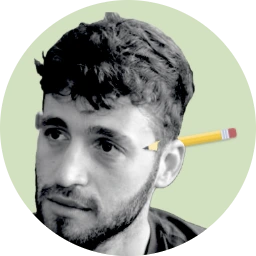
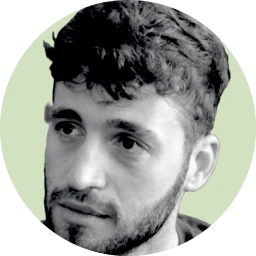
feat(design): enlarge the tutor portrait and put books on the desk
The portrait is cropped close, without the pencil, and shown larger:
96px in the margins and 48px beside tutor notes. On wide screens a
spiral notebook, a stack of books and an open book lie on the graph
paper beside the sheet, drawn in the color tokens and kept behind the
content.

diff --git a/client/src/components/Drawings.jsx b/client/src/components/Drawings.jsx
@@ -1,8 +1,8 @@
-// The tutor's portrait and the pencil. Both are decoration: screen readers skip them.
+// The tutor's portrait and the drawings on the page. All decoration: screen readers skip them.
 import tutorPortrait from './tutor.webp'
 
-// The tutor is the app's author: a photo cut out and set in ink on sage, with this file's pencil
-// tucked behind the ear. One prepared 256px image, so nothing is composed in the browser.
+// The tutor is the app's author: a photo cut out and set in ink on the sage circle.
+// One prepared 256px image, so nothing is composed in the browser.
 export function TutorAvatar({ className = '' }) {
   return <img src={tutorPortrait} alt="" className={`shrink-0 rounded-pill ${className}`} />
 }
@@ -21,5 +21,69 @@ export function Pencil({ className = '' }) {
       <path d="M168 4 L200 14 L168 24 Z" className="fill-pencil/40" />
       <path d="M188 10.25 L200 14 L188 17.75 Z" className="fill-graphite" />
     </svg>
+  )
+}
+
+// A spiral notebook with an elastic band, seen from above.
+function Notebook({ className }) {
+  const rings = [22, 40, 58, 76, 94, 112, 130, 148, 166, 184]
+  return (
+    <svg viewBox="0 0 170 210" className={className}>
+      <rect x="26" y="12" width="136" height="190" rx="9" strokeWidth="2" className="fill-paper stroke-grid" />
+      <rect x="20" y="8" width="136" height="190" rx="9" className="fill-blue" />
+      <rect x="58" y="44" width="76" height="40" rx="5" className="fill-paper" />
+      <path d="M68 58 h56 M68 70 h40" strokeWidth="3" strokeLinecap="round" className="stroke-grid" />
+      <rect x="132" y="8" width="7" height="190" className="fill-pen/85" />
+      {rings.map((y) => <path key={y} d={`M10 ${y} q10 -8 18 0`} fill="none" strokeWidth="3" strokeLinecap="round" className="stroke-graphite" />)}
+    </svg>
+  )
+}
+
+// Three books lying on top of each other, seen from the side.
+function BookStack({ className }) {
+  const pages = (x, y, width) => <path d={`M${x} ${y} h${width} M${x} ${y + 6} h${width} M${x} ${y + 12} h${width}`} strokeWidth="2" className="stroke-grid" />
+  return (
+    <svg viewBox="0 0 230 150" className={className}>
+      <rect x="8" y="104" width="214" height="38" rx="5" className="fill-ink" />
+      <rect x="150" y="110" width="66" height="26" rx="2" className="fill-paper" />
+      {pages(154, 117, 58)}
+      <rect x="30" y="110" width="8" height="26" className="fill-pencil" />
+      <rect x="24" y="68" width="186" height="36" rx="5" className="fill-pen" />
+      <rect x="24" y="74" width="60" height="24" rx="2" className="fill-paper" />
+      {pages(28, 80, 52)}
+      <rect x="14" y="36" width="196" height="32" rx="5" strokeWidth="2" className="fill-sage stroke-graphite/25" />
+      <rect x="140" y="41" width="64" height="22" rx="2" className="fill-paper" />
+      {pages(144, 47, 56)}
+      <path d="M40 46 h70 M40 56 h46" strokeWidth="3" strokeLinecap="round" className="stroke-ink/45" />
+    </svg>
+  )
+}
+
+// An open book, seen from above, with a teacher's tick on the right page.
+function OpenBook({ className }) {
+  const lines = ['M32 36 Q66 28 104 36', 'M32 52 Q66 44 104 52', 'M32 68 Q66 60 104 68', 'M32 84 Q66 76 92 82', 'M32 100 Q66 92 104 100', 'M136 36 Q174 28 208 36', 'M136 52 Q174 44 208 52', 'M136 68 Q174 60 196 66']
+  return (
+    <svg viewBox="0 0 240 150" className={className}>
+      <path d="M10 26 Q60 14 120 26 Q180 14 230 26 L230 142 Q180 130 120 142 Q60 130 10 142 Z" className="fill-blue" />
+      <path d="M18 18 Q66 6 118 20 L118 132 Q66 120 18 130 Z" className="fill-paper" />
+      <path d="M122 20 Q174 6 222 18 L222 130 Q174 120 122 132 Z" className="fill-paper" />
+      <path d="M120 20 V134" strokeWidth="3" className="stroke-grid" />
+      {lines.map((d) => <path key={d} d={d} fill="none" strokeWidth="3" strokeLinecap="round" className="stroke-grid" />)}
+      <path d="M142 86 l12 12 l20 -24" fill="none" strokeWidth="4" strokeLinecap="round" strokeLinejoin="round" className="stroke-pen" />
+    </svg>
+  )
+}
+
+// Notebooks and books lying on the graph-paper desk beside the sheet. Only on wide screens,
+// where there is room beside the content; behind everything, and ignored by screen readers.
+export function DeskObjects() {
+  return (
+    <div aria-hidden="true" className="pointer-events-none absolute inset-0 -z-10 hidden overflow-hidden xl:block">
+      <div className="relative mx-auto h-full max-w-sheet">
+        <Notebook className="absolute -right-36 top-36 w-32 rotate-6" />
+        <BookStack className="absolute -left-40 top-128 w-36 -rotate-3" />
+        <OpenBook className="absolute -right-38 top-200 w-36 -rotate-6" />
+      </div>
+    </div>
   )
 }

diff --git a/client/src/screens/PlanScreen.jsx b/client/src/screens/PlanScreen.jsx
@@ -8,7 +8,7 @@ export default function PlanScreen({ plan, usedBackupModel, onRemoveStep, onStar
     return (
       <main className="mx-auto max-w-sheet px-4 py-8 lg:py-12">
         <div className="max-w-page rounded-sheet bg-paper p-5 shadow-sheet sm:p-8">
-          <TutorAvatar className="size-14" />
+          <TutorAvatar className="size-24" />
           <h1 className="mt-4 text-title font-bold">This file can&rsquo;t be taught as a lesson</h1>
           <p dir="auto" className="mt-3 text-lesson">{plan.reason}</p>
           <p className="mt-3 text-graphite">A lesson needs school material: a chapter, an article, a worksheet or class notes.</p>
@@ -54,7 +54,7 @@ export default function PlanScreen({ plan, usedBackupModel, onRemoveStep, onStar
         </section>
 
         <aside className="mt-10 lg:mt-2 lg:w-margin">
-          <TutorAvatar className="size-14" />
+          <TutorAvatar className="size-24" />
           <h2 className="mt-3 font-bold">Before you start</h2>
           <p className="mt-3 text-small text-graphite">
             Remove any step you don&rsquo;t want. Each step ends with its check question. A wrong answer gets a hint aimed at that mistake; a second one gets a new explanation and a parallel question.

diff --git a/client/src/App.jsx b/client/src/App.jsx
@@ -1,6 +1,7 @@
 import { useReducer, useRef, useState } from 'react'
 import { buildLesson } from './api.js'
 import Button from './components/Button.jsx'
+import { DeskObjects } from './components/Drawings.jsx'
 import Settings from './components/Settings.jsx'
 import { lessonReducer, removeStep } from './lesson.js'
 import LessonScreen from './screens/LessonScreen.jsx'
@@ -67,7 +68,8 @@ export default function App() {
   }
 
   return (
-    <div className="min-h-dvh">
+    <div className="relative min-h-dvh">
+      <DeskObjects />
       <header className="mx-auto max-w-sheet px-4 pt-4">
         <div className="flex min-h-14 items-center justify-between gap-4 rounded-pill bg-sage py-1.5 ps-6 pe-1.5">
           <p className="font-bold whitespace-nowrap">Teach me this file</p>

diff --git a/client/src/screens/ReportScreen.jsx b/client/src/screens/ReportScreen.jsx
@@ -56,7 +56,7 @@ export default function ReportScreen({ lesson, onRestart }) {
         </section>
 
         <aside className="mt-10 lg:mt-2 lg:w-margin">
-          <TutorAvatar className="size-14" />
+          <TutorAvatar className="size-24" />
           <h2 className="mt-3 font-bold">For the next lesson</h2>
           <p className="mt-3 text-small text-graphite">
             Start from the steps that needed a second explanation or a review, and from the wrong ideas listed here. Each one is the specific belief the student showed when choosing an answer.

diff --git a/client/src/components/TutorNote.jsx b/client/src/components/TutorNote.jsx
@@ -24,7 +24,7 @@ export function LessonText({ children, className = '' }) {
 export default function TutorNote({ text, note, live, onShowSource }) {
   return (
     <div className="flex gap-3">
-      <TutorAvatar className="size-9" />
+      <TutorAvatar className="size-12" />
       <div className="min-w-0 flex-1" aria-live={live ? 'polite' : undefined}>
         <LessonText className="text-lesson">{text || '…'}</LessonText>
         {note && <p className="mt-1 text-small text-graphite">{note}</p>}

diff --git a/client/src/screens/SetupScreen.jsx b/client/src/screens/SetupScreen.jsx
@@ -168,7 +168,7 @@ export default function SetupScreen({ hasKey, onAddKey, file, onFileChange, prom
         </form>
 
         <aside className="mt-10 lg:mt-2 lg:w-margin">
-          <TutorAvatar className="size-14" />
+          <TutorAvatar className="size-24" />
           <h2 className="mt-3 font-bold">How the lesson goes</h2>
           <ol className="mt-3 space-y-3 text-small text-graphite">
             {METHOD.map((line) => <li key={line}>{line}</li>)}

diff --git a/docs/DESIGN.md b/docs/DESIGN.md
@@ -54,10 +54,11 @@ Options are numbered bubbles, 1 to 4, as on a psychometric answer sheet. Numbers
 
 The lesson path uses the same pen: a tick (right first time), a tick with one dot (after a hint), a tick with two dots (after a reteach), a circled number (needs review).
 
-## The pencil and the tutor
+## Drawings and the tutor
 
 - **The pencil** was drawn for this app as SVG, in the color tokens above. It rests on the corner of the sheet: it is the student's tool, and the reason filled bubbles are graphite.
-- **The tutor** is the app's author: a photo cut out from its background and set in ink on the sage circle, with the app's yellow pencil tucked behind the ear. The pencil is the only color on the portrait, so it ties the tutor to the student's tool, and it adds the one touch of humor in the interface. The portrait marks what the tutor says: the method notes on the Setup screen and each tutor note in the lesson. Tutor text itself stays on the sheet as notes, not in chat bubbles, because explanations, tables and formulas need the full width on a phone.
+- **Notebooks and books** lie on the graph-paper desk beside the sheet: a spiral notebook, a stack of books, and an open book with a teacher's tick. They are drawn for this app in the same color tokens, kept flat and away from the content, and shown only on wide screens, because a phone has no margin for them.
+- **The tutor** is the app's author: a photo cut out from its background, set in ink on the sage circle and cropped close, so the face fills it. The portrait marks what the tutor says: the method notes on the Setup screen and each tutor note in the lesson. Tutor text itself stays on the sheet as notes, not in chat bubbles, because explanations, tables and formulas need the full width on a phone.
 
 ## Screens
 
@@ -110,7 +111,7 @@ On a phone the margin becomes a bottom sheet opened by "Show source".
 
 **Round 2, after the first version was live.** That version was a printed exam page: a serif typeface, square corners, hairlines, no drawings. It was correct and it felt stern for school students. The change of direction took its cue from [Taitor](https://phenomenonstudio.com/projects/taitor-interactive-ai-tutoring-for-kids-and-teens), a tutoring app for kids and teens designed by Phenomenon Studio, which feels approachable without being childish. What was borrowed are general ideas: graph paper, one soft white sheet, pill buttons, a clear blue, a calm green header, a friendly sans, a face for the tutor. Nothing of Taitor's own was used: no mascot, illustration, logo or screen.
 
-**Round 3, the tutor's face.** The first tutor was a simple geometric face drawn for the app, and it looked like generic flat AI art. A stock illustration would have been just as anonymous. The tutor is now a real person, the author, in the same ink as the rest of the page, with a pencil behind the ear.
+**Round 3, the tutor's face.** The first tutor was a simple geometric face drawn for the app, and it looked like generic flat AI art. A stock illustration would have been just as anonymous. The tutor is now a real person, the author, in the same ink as the rest of the page.
 
 Two earlier rules were relaxed on purpose. "No rounded cards with soft shadows" became "one sheet per screen". The limit of six colors became nine, because a pencil has to be yellow.
 
